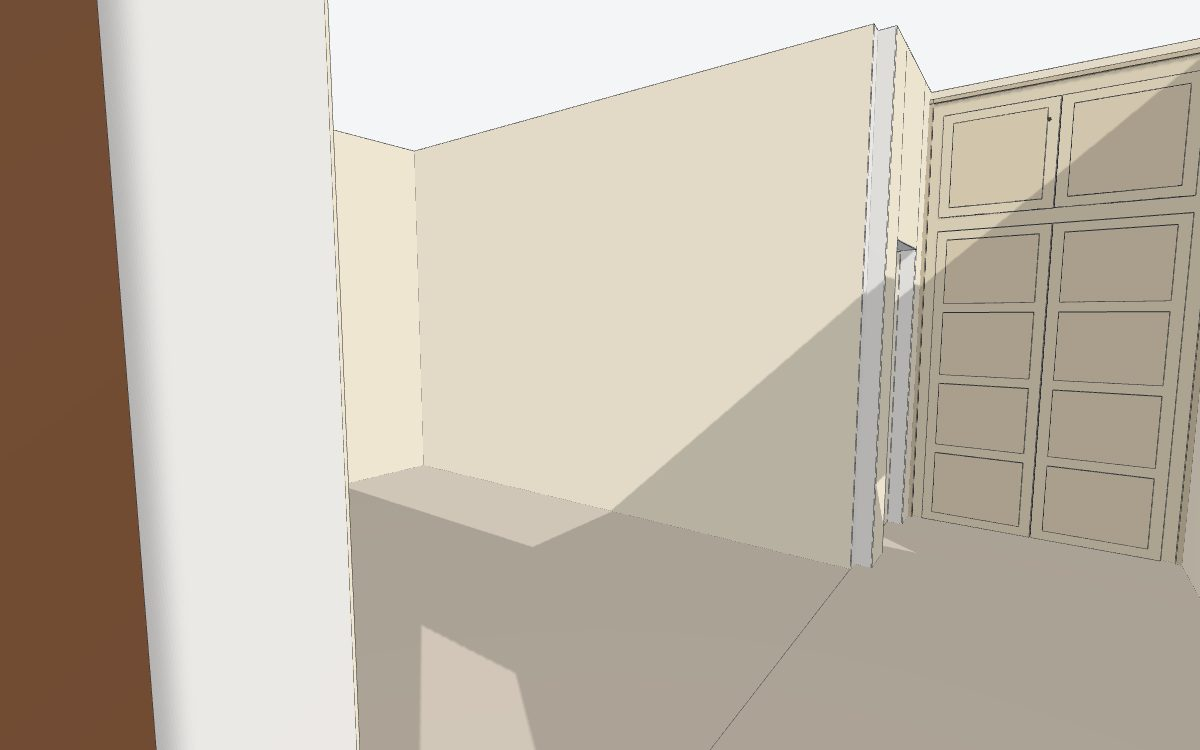
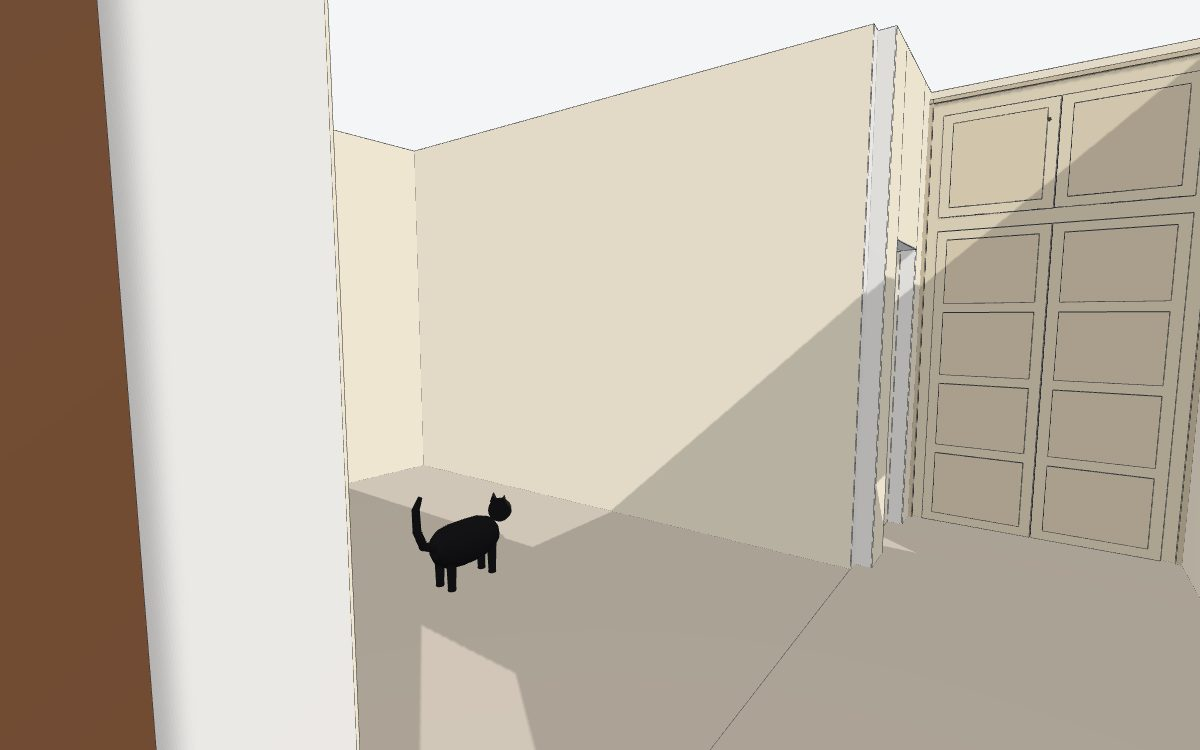
Add a black cat (~7 kg) in the soggiorno
Claude-Session: https://claude.ai/code/session_017Czcnh6xzZxgGSwco7M1Pu

Changed region(s): [[0.3392, 0.644, 0.4317, 0.7973]]

diff --git a/projects/casa-poggi/house.js b/projects/casa-poggi/house.js
@@ -3,7 +3,7 @@
 // Source: floor plan PDF "Planimetria_Casa_Poggi_Milano_modificata" (stato di fatto). "measured" = printed on the drawing, "estimate" = guessed.
 // Basic shell only: walls, openings, floor, balconies. No furniture, no materials yet (neutral colours).
 const path = require('path');
-const kit = require('../../scripts/scene-kit').createScene({ defaultOn: ['porte', 'armadio', 'porta-bagno', 'pittura', 'condizionatore', 'lampada-terra'] });
+const kit = require('../../scripts/scene-kit').createScene({ defaultOn: ['porte', 'armadio', 'porta-bagno', 'pittura', 'condizionatore', 'lampada-terra', 'gatto'] });
 const { box, wall, slab, tube, rbox, group, defGroup, light } = kit;
 
 // ---------- dimensions (cm) ----------
@@ -222,6 +222,31 @@ const balcony = (n, x0, x1, y0, y1, side) => {
   kit.items.filter(i => i.n.startsWith('/Lampada/Lampada_Vetro')).forEach(i => { i.em = 1; i.ne = 1; });   // glowing glass, no outlines between the elements
   kit.items.filter(i => /Lampada_(Base|Attacco)/.test(i.n)).forEach(i => { i.c = [232, 234, 238, 255]; i.mt = [1, 0.04]; i.ne = 1; });   // mirror-polished silver
   light({ p: [cx, cy, 120], a: 85, pen: 1, c: [255, 236, 210], i: 60, r: 600, g: 'lampada-terra' });
+}
+
+// black cat, ~7 kg (big, roundish but not fat): standing, facing +x, in the soggiorno   sizes estimate (body ~48 cm, shoulder ~28 cm)
+// leaf names carry no digits so the whole cat moves as one piece
+{ const x = 180, y = 850, BK = [24, 24, 26, 255], EY = [196, 170, 40, 255], NO = [60, 44, 44, 255];
+  const ball = (n, c, cx, cy, cz, r) => { const p = [], rr = [];
+    for (let k = 0; k <= 10; k++) { const a = Math.PI * k / 10; p.push([cx, cy, cz - r * Math.cos(a)]); rr.push(Math.max(0.2, r * Math.sin(a))); }
+    tube(n, c, p, rr, 20); };
+  defGroup('gatto', 'Gatto nero (7 kg)', 'Animali');
+  group('gatto', () => {
+    const bz = 24, bp = [0, 3, 8, 16, 26, 36, 43, 47].map(d => [x + d, y, bz + (d > 30 ? (d - 30) * 0.12 : 0)]);
+    tube('/Gatto/Gatto_Corpo', BK, bp, [4, 9, 12, 13, 13, 12, 9, 4], 22);
+    for (const [n, dx, dy] of [['Ant_Sx', 40, 5], ['Ant_Dx', 40, -5], ['Post_Sx', 8, 5.5], ['Post_Dx', 8, -5.5]])
+      tube(`/Gatto/Gatto_Zampa_${n}`, BK, [[x + dx, y + dy, 0], [x + dx, y + dy, 1.5], [x + dx, y + dy, bz]], [2.6, 2.4, 3.2], 12);
+    const hx = x + 52, hz = bz + 12;
+    ball('/Gatto/Gatto_Testa', BK, hx, y, hz, 7.5);
+    ball('/Gatto/Gatto_Muso', BK, hx + 5.5, y, hz - 2.5, 3.6);
+    tube('/Gatto/Gatto_Orecchio_Sx', BK, [[hx - 1, y + 4, hz + 5], [hx - 0.5, y + 5, hz + 10.5]], [2.8, 0.3], 10);
+    tube('/Gatto/Gatto_Orecchio_Dx', BK, [[hx - 1, y - 4, hz + 5], [hx - 0.5, y - 5, hz + 10.5]], [2.8, 0.3], 10);
+    ball('/Gatto/Gatto_Occhio_Sx', EY, hx + 6.2, y + 2.8, hz + 1.2, 1.1);
+    ball('/Gatto/Gatto_Occhio_Dx', EY, hx + 6.2, y - 2.8, hz + 1.2, 1.1);
+    ball('/Gatto/Gatto_Naso', NO, hx + 9, y, hz - 1.5, 0.7);
+    tube('/Gatto/Gatto_Coda', BK, [[x + 1, y, bz + 3], [x - 7, y, bz + 6], [x - 11, y, bz + 16], [x - 10, y + 2, bz + 28], [x - 6, y + 3, bz + 34]], [3, 2.6, 2.4, 2.2, 1.2], 12);
+  });
+  kit.items.filter(i => i.n.startsWith('/Gatto/')).forEach(i => { i.ne = 1; });   // fur: no outlines
 }
 
 const out = process.argv[2] || path.join(__dirname, 'scene.json');
